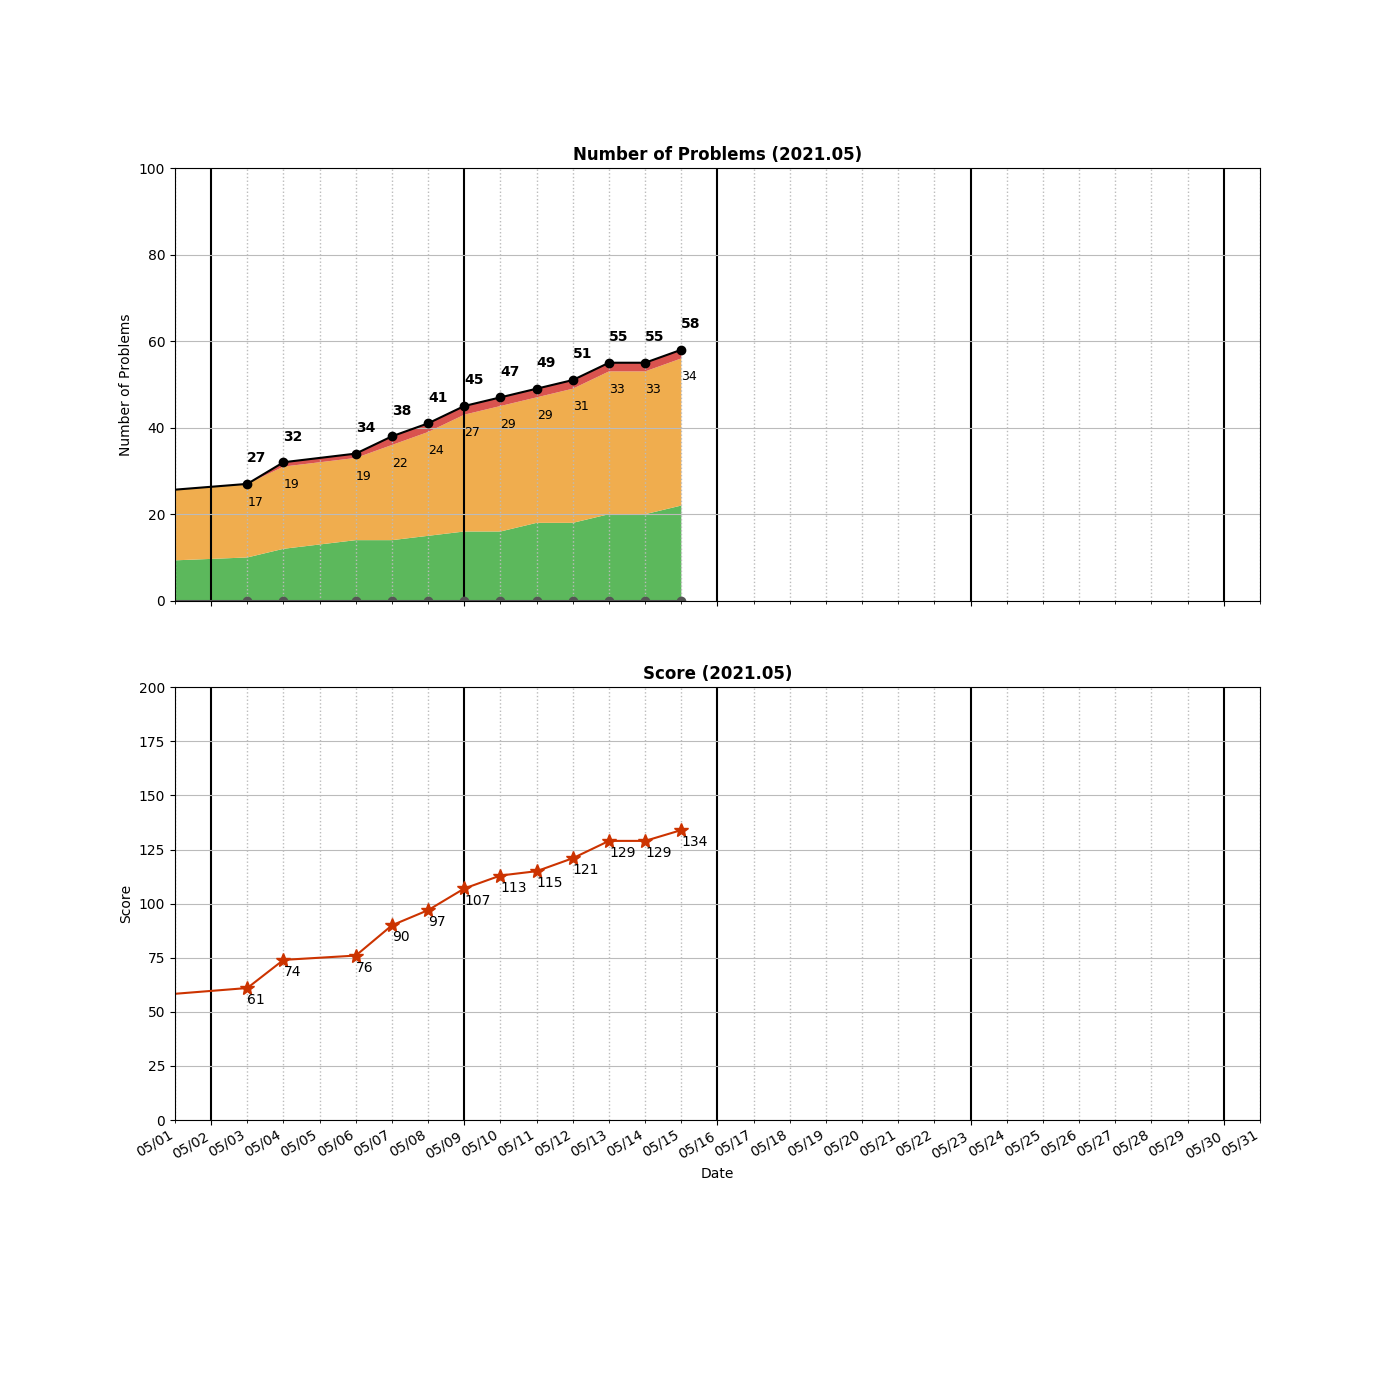
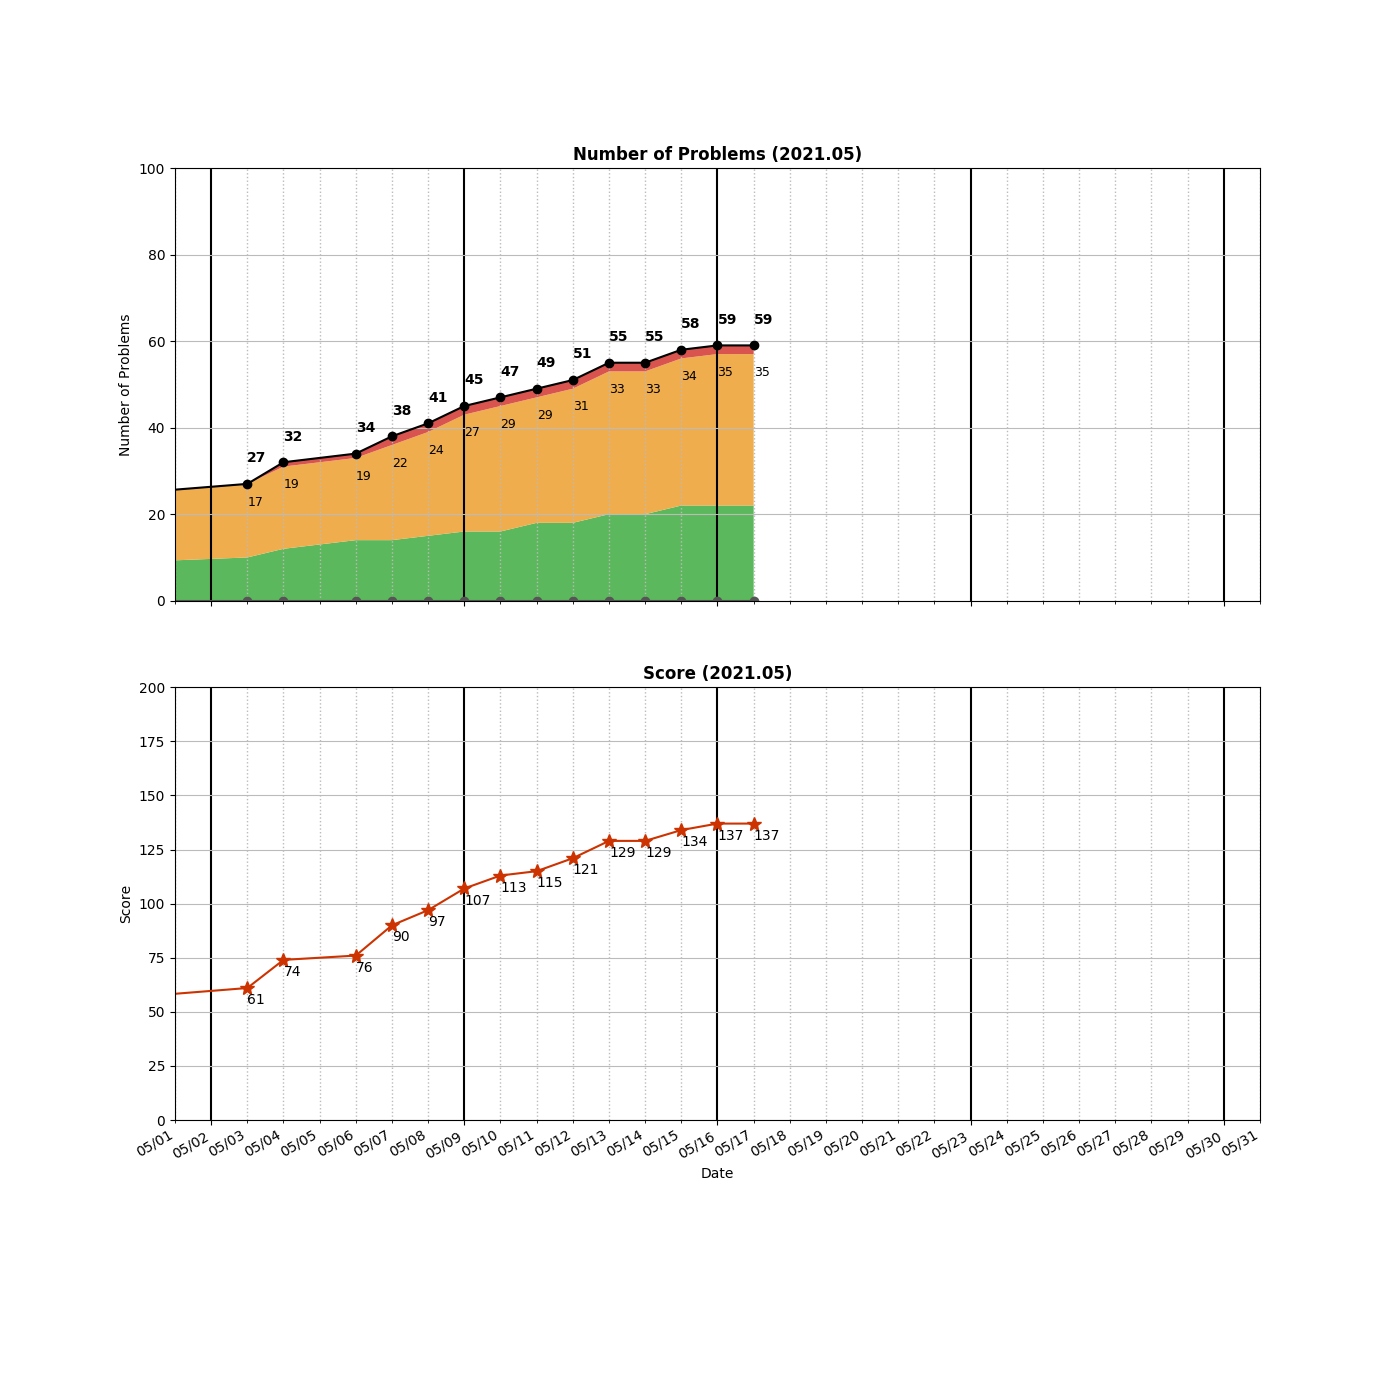
Added iterative inorder traversal up-to-k to solve __0230__Kth Smallest Element in a BST.py

Changed region(s): [[0.4607, 0.215, 0.5529, 0.43], [0.4914, 0.5836, 0.5529, 0.6143]]

diff --git a/algo/Tree/__0230__Kth Smallest Element in a BST.py b/algo/Tree/__0230__Kth Smallest Element in a BST.py
@@ -6,8 +6,31 @@
 #         self.right = right
 class Solution:
     
-    # Inorder traversal to get the sorted array ; use return val [O(n), 6%]
+    # Inorder traversal, iteration, up to k [O(k + h), 76%]
     def kthSmallest(self, root: TreeNode, k: int) -> int:
+        print("Inorder, iteration")
+        if not root:
+            return None 
+        
+        dummy = TreeNode(0)
+        dummy.right = root
+        stack = [dummy]
+        
+        for _ in range(k):
+            if not stack:
+                return None
+            cur = stack.pop()
+            if cur.right:
+                cur = cur.right
+                while cur:
+                    stack.append(cur)
+                    cur = cur.left
+        return stack[-1].val
+        
+    # =========================================================
+
+    # Inorder traversal to get the sorted array ; use return val [O(n), 6%]
+    def kthSmallest2(self, root: TreeNode, k: int) -> int:
         print("Inorder, recursion, return val")
         if not root:
             return None

diff --git a/README.md b/README.md
@@ -68,12 +68,13 @@ algo
 │   ├── __0235__Lowest\ Common\ Ancestor\ of\ a\ Binary\ Search\ Tree.py
 │   ├── __0236__Lowest\ Common\ Ancestor\ of\ a\ Binary\ Tree.py
 │   ├── __0257__Binary\ Tree\ Paths.py
+│   ├── __0437__Path\ Sum\ III.py
 │   └── __0617__Merge\ Two\ Binary\ Trees.py
 └── Two-Pointer
     ├── __0003__Longest\ Substring\ Without\ Repeating\ Characters.py
     └── __0167__Two\ Sum\ II\ -\ Input\ array\ is\ sorted.py
 
-14 directories, 58 files
+14 directories, 59 files
 
 =====================================
 ============= Local Repo ============
@@ -131,13 +132,14 @@ __0297__Serialize and Deserialize Binary Tree.py
 __0322__Coin Change.py
 __0347__Top K Frequent Elements.py
 __0378__Kth Smallest Element in a Sorted Matrix.py
+__0437__Path Sum III.py
 __0617__Merge Two Binary Trees.py
 __0658__Find K Closest Elements.py
 __0694__Number of Distinct Islands.py
 __0704__Binary Search.py
 __0706__Design HashMap.py
 =====================================
-Num of Python Practice:  58
+Num of Python Practice:  59
 
 
 =====================================
@@ -196,17 +198,18 @@ Num of Python Practice:  58
  0322 Coin Change
  0347 Top K Frequent Elements
  0378 Kth Smallest Element in a Sorted Matrix
+ 0437 Path Sum III
  0617 Merge Two Binary Trees
  0658 Find K Closest Elements
  0694 Number of Distinct Islands
  0704 Binary Search
  0706 Design HashMap
 =====================================
-Solved / Total (Easy)  :   22 /  488
-Solved / Total (Medium):   34 /  978
-Solved / Total (Hard)  :    2 /  392
-Solved / Total (All)   :   58 / 1858
-Total Score            :  134
+Solved / Total (Easy)  :   22 /  491
+Solved / Total (Medium):   35 /  982
+Solved / Total (Hard)  :    2 /  394
+Solved / Total (All)   :   59 / 1867
+Total Score            :  137
 =====================================
 
 ```
